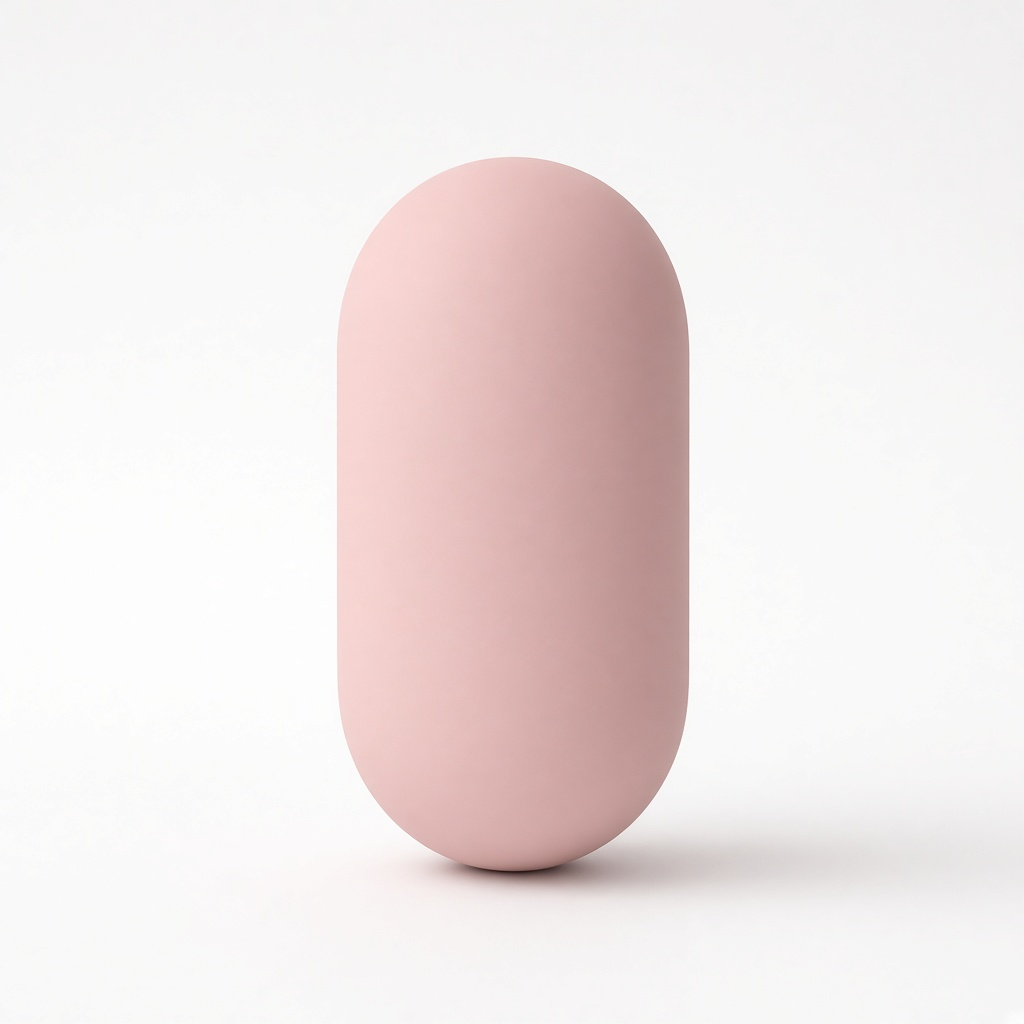
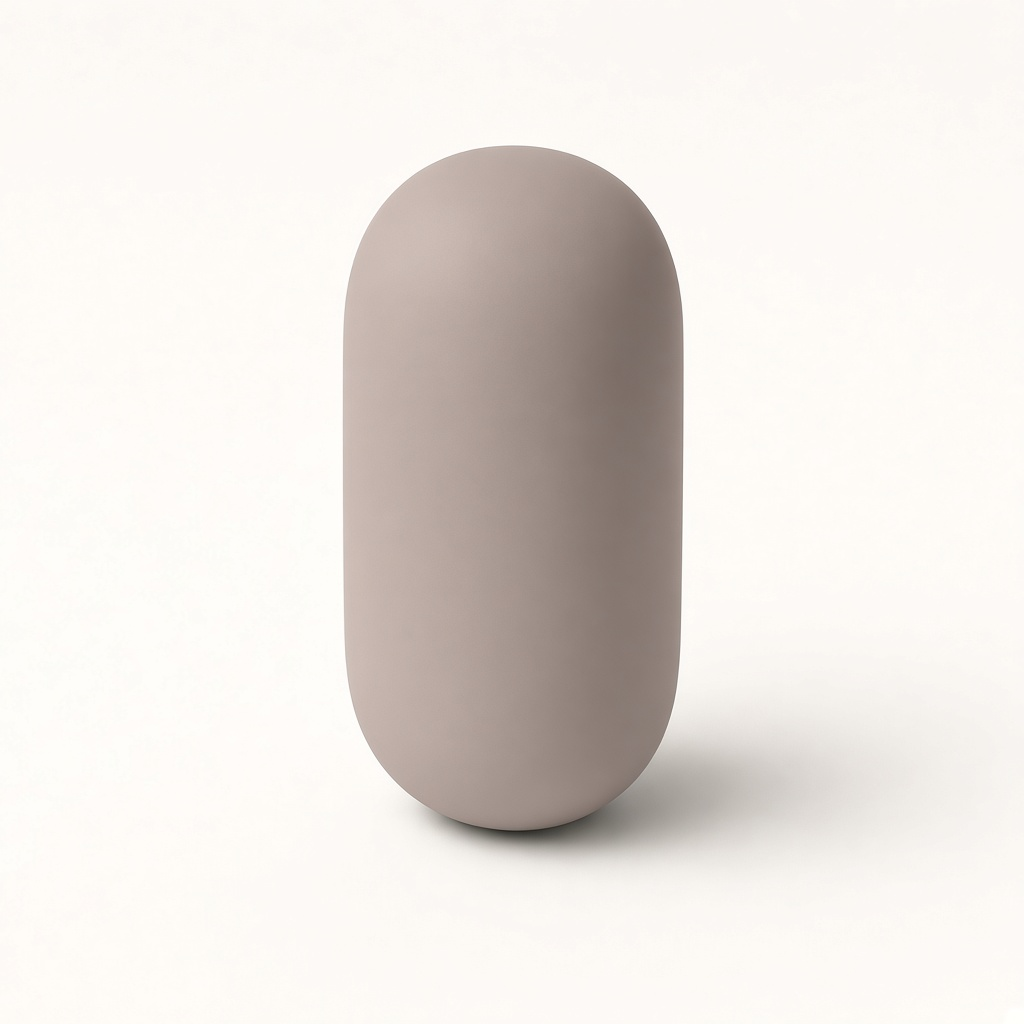
BIZ-407 Move the second hover, smooth the window close, and refill the product photos.
The second open card was in the same column as the first, the close eased and then stalled, and the photos were letterboxed inside the cards.

Changed region(s): [[0.3125, 0.125, 0.8438, 0.875]]

diff --git a/assets/theme.js b/assets/theme.js
@@ -622,50 +622,6 @@
     'spec-shield': '<path d="M12 2.4 20.2 5.6v6.2c0 4.4-3 7.6-8.2 9.8-5.2-2.2-8.2-5.4-8.2-9.8V5.6z"/>',
   };
 
-  const PROMO_NEUTRAL_KEY = {
-    cone: 'cone-c',
-    sphere: 'sphere',
-    cube: 'cube-b',
-    'rounded-cube': 'rounded-cube',
-    cylinder: 'cylinder-c',
-    'low-cylinder': 'low-cylinder',
-    'tall-box': 'tall-box',
-    capsule: 'capsule-c',
-    torus: 'torus-b',
-    dome: 'dome',
-  };
-  const PROMO_LOOK_TINT = {
-    cone: 'blush',
-    'cone-b': 'sand',
-    'cone-c': 'grey',
-    sphere: 'grey',
-    'sphere-b': 'stone',
-    'sphere-c': 'white',
-    cube: 'sand',
-    'cube-b': 'grey',
-    'cube-c': 'blush',
-    'rounded-cube': 'stone',
-    'rounded-cube-b': 'sage',
-    'rounded-cube-c': 'sand',
-    cylinder: 'sage',
-    'cylinder-b': 'stone',
-    'cylinder-c': 'grey',
-    'low-cylinder': 'white',
-    'low-cylinder-b': 'sand',
-    'low-cylinder-c': 'sage',
-    'tall-box': 'grey',
-    'tall-box-b': 'stone',
-    'tall-box-c': 'blush',
-    capsule: 'sage',
-    'capsule-b': 'blush',
-    'capsule-c': 'white',
-    torus: 'sand',
-    'torus-b': 'stone',
-    'torus-c': 'sage',
-    dome: 'stone',
-    'dome-b': 'grey',
-    'dome-c': 'blush',
-  };
   const PROMO_GRID_LIFE_MS = 4000;
   const PROMO_GRID_LIFT_MS = 600;
   const PROMO_PAIN_LIFE_HOLD = ['open', 'back', 'scroll-1', 'open-2', 'back-2', 'scroll-2', 'scroll-3', 'scroll-4', 'leave'];
@@ -696,14 +652,8 @@
     return kind;
   }
 
-  function clayTint(look) {
-    const name = PROMO_LOOK_TINT[clayVariantKey(look)] || 'stone';
-    return `var(--tint-${name})`;
-  }
-
   function claySrc(look) {
-    const kind = typeof look === 'string' ? look : look.kind;
-    const key = PROMO_NEUTRAL_KEY[kind] || kind;
+    const key = clayVariantKey(look);
     const listed = promoClayUrls()[key];
     if (listed) return listed;
     const stamp = document.documentElement.getAttribute('data-promo-bizmis-stamp') || '';
@@ -757,7 +707,7 @@
     card.dataset.clayTurn = look.turn;
     card.dataset.clayFinish = look.finish;
     card.style.setProperty('--clay-scale', String(look.scale));
-    card.style.setProperty('--tint', clayTint(look));
+    card.style.removeProperty('--tint');
     const img = card.querySelector('.promo-moments__glyph img');
     const src = claySrc(look);
     if (img && img.getAttribute('src') !== src) img.src = src;
@@ -1035,7 +985,8 @@
     const gutter = PROMO_CATALOG_GUTTER;
     const rowGapY = PROMO_CATALOG_ROW_GAP;
     const cardW = (contentWidth - PROMO_CATALOG_PAD_X * 2 - (cols - 1) * gutter) / cols;
-    const cardH = (stage.clientHeight - PROMO_CATALOG_PAD_Y * 2 - rowGapY) / PROMO_CATALOG_VISIBLE_ROWS;
+    const cardFooter = 92;
+    const cardH = cardW + cardFooter;
     const pitchX = cardW + gutter;
     const pitchY = cardH + rowGapY;
     const inset = PROMO_CATALOG_PAD_X;
@@ -2866,6 +2817,8 @@
       this.root.style.setProperty('--promo-pain-card', '720ms');
       this.root.style.setProperty('--promo-pain-exit', `${PROMO_PAIN_EXIT_MS}ms`);
       this.ensureMoments();
+      const openingStore = this.painStore();
+      if (openingStore) openingStore.style.visibility = '';
       this.root.classList.add('is-pain', 'is-moments');
       const stage = this.momentStage();
       void stage?.offsetWidth;
@@ -2892,8 +2845,9 @@
 
     painBrowseCard(slot) {
       const cols = this.painCols();
-      const base = cols + 1;
-      const index = base + Math.max(0, slot) * cols;
+      const row = 1 + Math.max(0, slot);
+      const column = slot === 0 ? 1 : 2;
+      const index = row * cols + column;
       return this.painCards()[index] || null;
     }
 
@@ -3180,16 +3134,17 @@
       cursor.style.setProperty('--pain-x', `${Math.round(aim.x)}px`);
       cursor.style.setProperty('--pain-y', `${Math.round(aim.y)}px`);
       cursor.style.opacity = '1';
+      this.pinWindowCloseOrigin();
       this.root.classList.add('is-window-aim');
       await waitMs(PROMO_WINDOW_AIM_MS);
       this.pinWindowCloseOrigin();
       await waitMs(PROMO_WINDOW_HOLD_MS);
-      this.parkPainCursor();
       this.root.classList.add('is-window-shut');
       window.setTimeout(() => {
         cursor.style.opacity = '0';
       }, Math.round(PROMO_WINDOW_CLOSE_MS * 0.62));
       await waitMs(PROMO_WINDOW_CLOSE_MS);
+      store.style.visibility = 'hidden';
       this.releasePainStage();
     }
 

diff --git a/assets/promo-ad.css b/assets/promo-ad.css
@@ -721,9 +721,19 @@ html.is-promo-opening.is-promo-depart .promo-opening {
   transform: translate(-50%, -50%) rotate(-45deg);
 }
 
+.promo-opening.is-window-aim .promo-opening__store,
 .promo-opening.is-window-shut .promo-opening__store {
   transform-origin: var(--window-close-x, 36px) var(--window-close-y, 32px);
-  animation: promo-window-close var(--promo-window-close, 760ms) cubic-bezier(0.4, 0, 0.15, 1) forwards;
+}
+
+.promo-opening.is-window-shut .promo-opening__store {
+  -webkit-backdrop-filter: none;
+  backdrop-filter: none;
+  animation: promo-window-close var(--promo-window-close, 760ms) cubic-bezier(0.4, 0, 0.2, 1) forwards;
+}
+
+.promo-opening.is-window-shut .promo-opening__store::before {
+  animation: none;
 }
 
 .promo-opening.is-pain.is-window-shut:not(.is-on) .promo-opening__center {
@@ -735,17 +745,9 @@ html.is-promo-opening.is-promo-depart .promo-opening {
     opacity: 1;
     transform: translateY(-0.4rem) scale(1);
   }
-  16% {
-    opacity: 1;
-    transform: translateY(-0.4rem) scale(0.96);
-  }
-  68% {
-    opacity: 0.88;
-    transform: translateY(-0.4rem) scale(0.4);
-  }
   100% {
     opacity: 0;
-    transform: translateY(-0.4rem) scale(0.1);
+    transform: translateY(-0.4rem) scale(0.08);
   }
 }
 
@@ -930,10 +932,10 @@ html.is-promo-opening.is-promo-depart .promo-opening {
 }
 
 .promo-opening.is-pain .promo-moments__card.is-pain-open .promo-moments__photo {
-  flex: 1 1 auto;
+  flex: 0 0 auto;
   min-height: 0;
   height: auto;
-  aspect-ratio: auto;
+  aspect-ratio: 1;
 }
 
 .promo-opening.is-pain .promo-moments__card.is-pain-open .promo-moments__add {
@@ -1312,10 +1314,9 @@ html.is-promo-opening.is-promo-depart .promo-opening {
   width: 100%;
   height: 100%;
   display: block;
-  object-fit: contain;
+  object-fit: cover;
   object-position: center;
   pointer-events: none;
-  filter: var(--tint, var(--tint-stone));
 }
 
 .promo-moments__spec-icon svg,
@@ -1748,11 +1749,11 @@ html.is-promo-opening.is-promo-depart .promo-opening {
 }
 
 .promo-moments__board.is-pose-grid .promo-moments__photo {
-  flex: 1 1 auto;
+  flex: 0 0 auto;
   width: 100%;
   height: auto;
   min-height: 0;
-  aspect-ratio: auto;
+  aspect-ratio: 1;
   background: var(--ad-surface);
 }
 
@@ -1863,11 +1864,12 @@ html.is-promo-opening.is-promo-depart .promo-opening {
 .is-pose-choice .promo-moments__card.is-go .promo-moments__photo,
 .is-pose-choice .promo-moments__card.is-pick .promo-moments__photo,
 .is-pose-choice .promo-moments__card.is-other .promo-moments__photo {
-  flex: 1 1 auto;
+  flex: 0 0 auto;
   width: 100%;
   height: auto;
   min-height: 0;
-  aspect-ratio: auto;
+  max-height: calc(100% - 88px);
+  aspect-ratio: 4 / 5;
 }
 
 .is-pose-choice .promo-moments__card.is-go .promo-moments__add,
@@ -2012,12 +2014,12 @@ html.is-promo-opening.is-promo-depart .promo-opening {
   position: absolute;
   left: 8px;
   top: 8px;
-  bottom: 8px;
-  width: 44%;
+  bottom: auto;
+  width: 46%;
   height: auto;
   min-height: 0;
   margin: 0;
-  aspect-ratio: auto;
+  aspect-ratio: 1;
   border-radius: 22px;
   background: var(--ad-surface);
 }
@@ -2077,7 +2079,7 @@ html.is-promo-opening.is-promo-depart .promo-opening {
 .promo-moments__board.is-pose-bundle .promo-moments__card.is-extra {
   z-index: 4;
   --card-w: 280px;
-  --card-h: 400px;
+  --card-h: 440px;
   top: 50%;
   width: var(--card-w);
   height: var(--card-h);
@@ -2108,12 +2110,12 @@ html.is-promo-opening.is-promo-depart .promo-opening {
   top: auto;
   right: auto;
   bottom: auto;
-  flex: 1 1 auto;
+  flex: 0 0 auto;
   width: 100%;
   height: auto;
   min-height: 0;
   margin: 0;
-  aspect-ratio: auto;
+  aspect-ratio: 1;
   border-radius: 16px;
 }
 
@@ -2311,7 +2313,7 @@ html.is-promo-opening.is-promo-depart .promo-opening {
 
 .promo-moments__board.is-pose-doubt .promo-moments__orbit,
 .promo-moments__board.is-pose-close .promo-moments__orbit {
-  left: calc(22% + 8px);
+  left: calc(23% + 8px);
   top: 50%;
   opacity: 1;
   animation: promo-moments-orbit var(--promo-moments-orbit, 14s) linear infinite;
